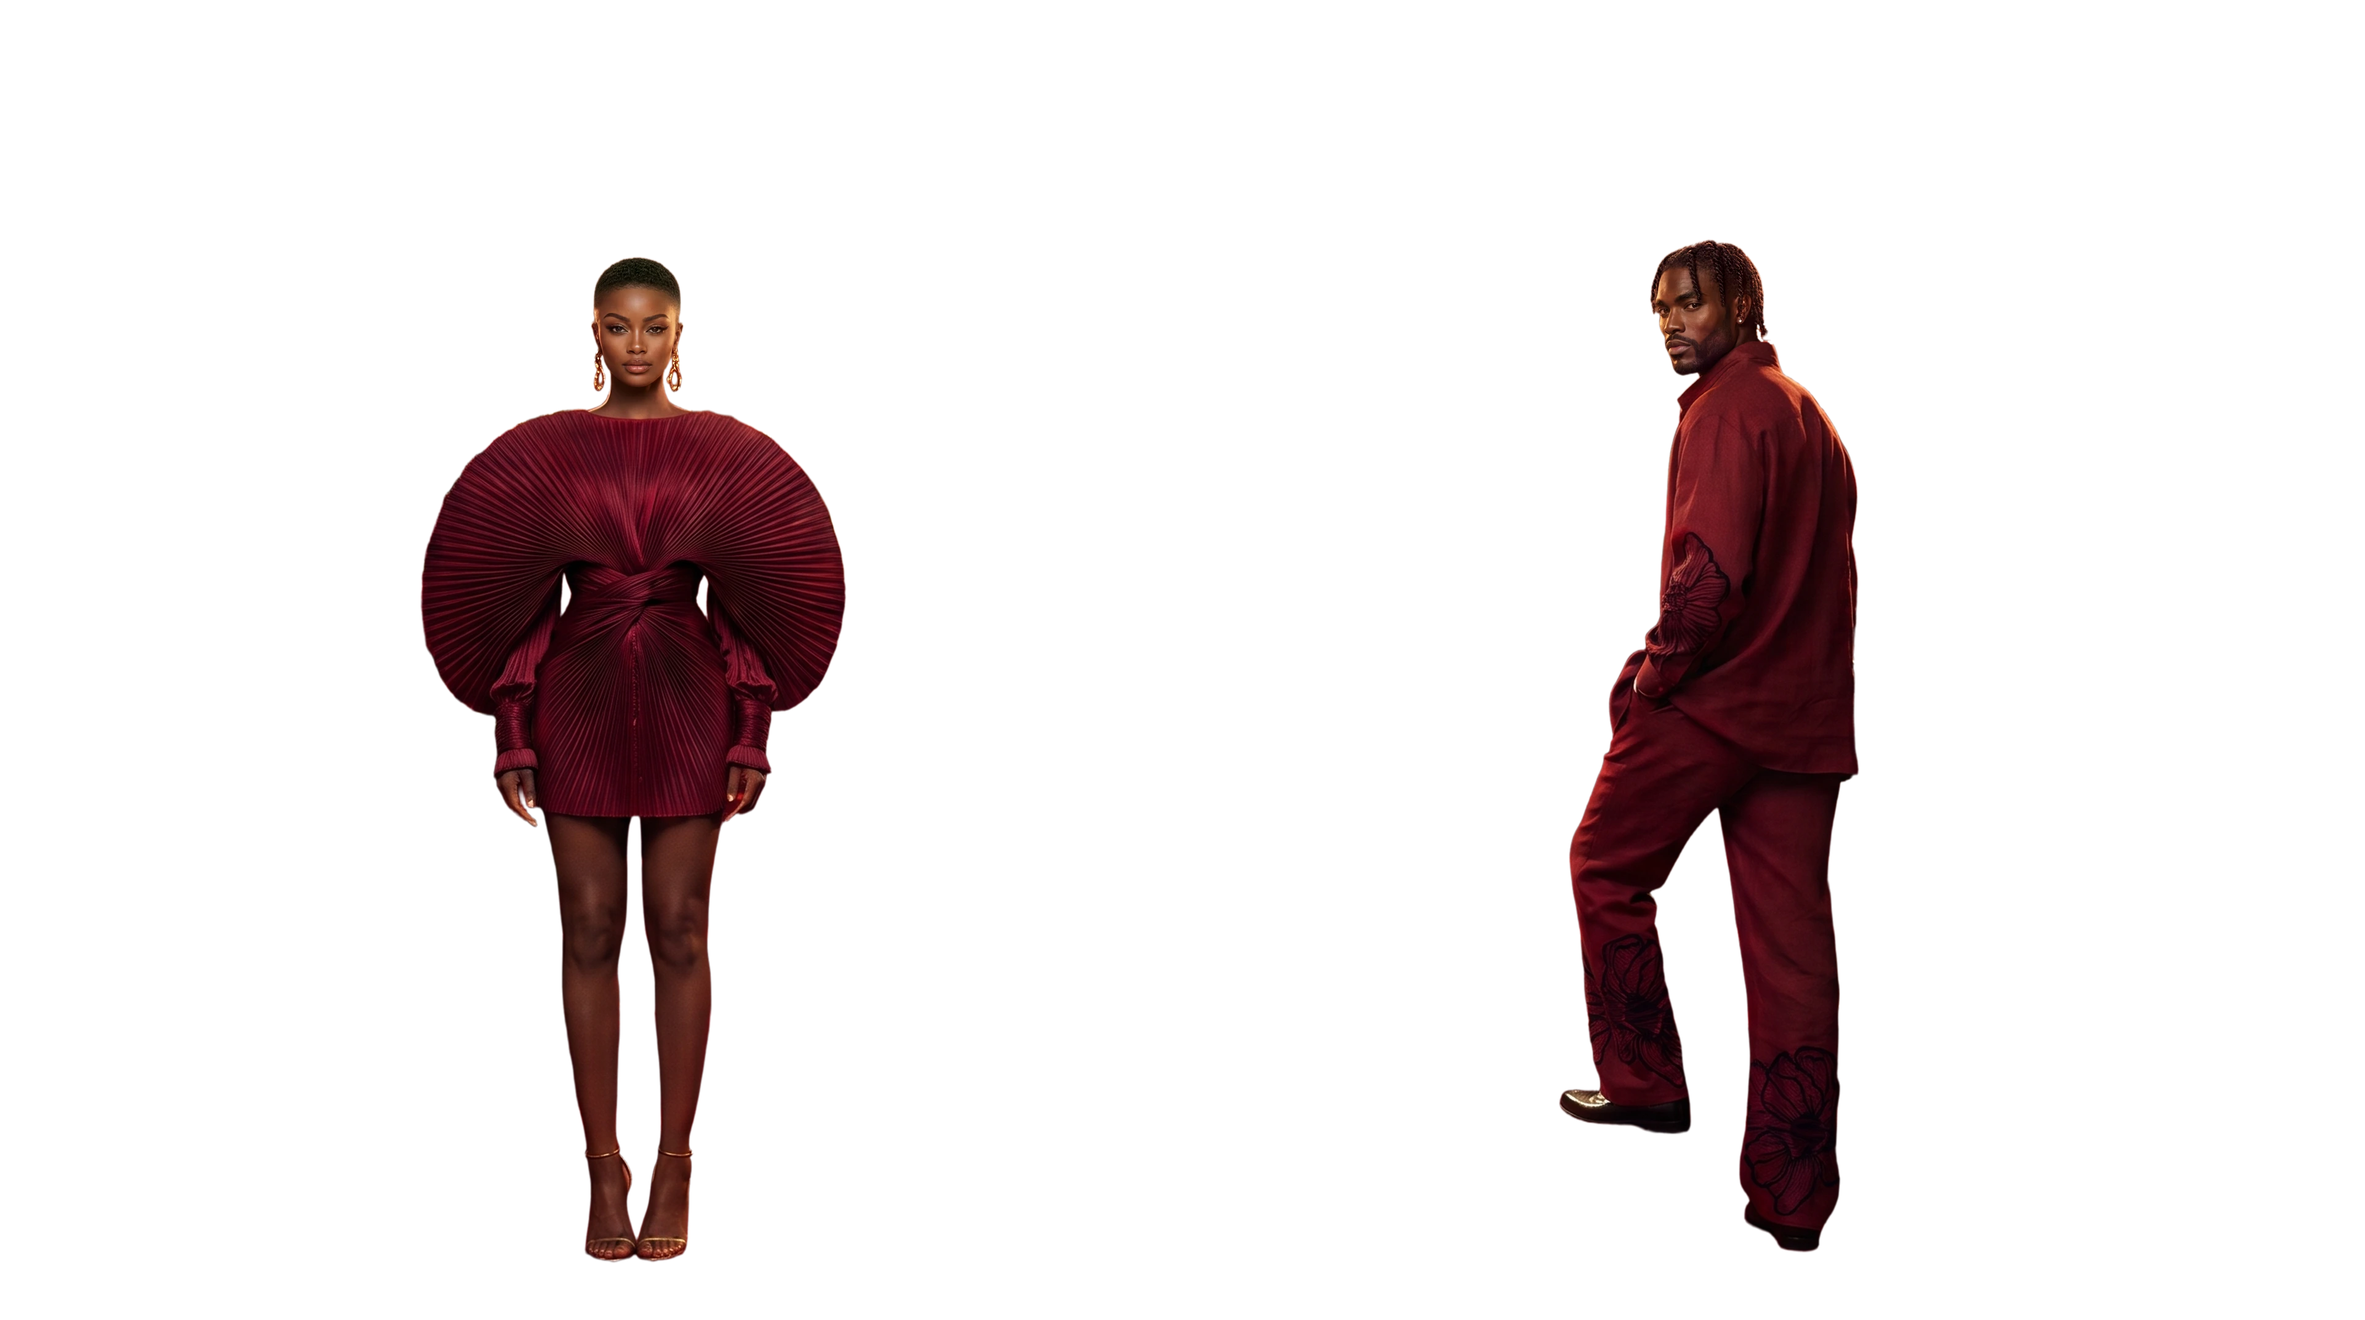
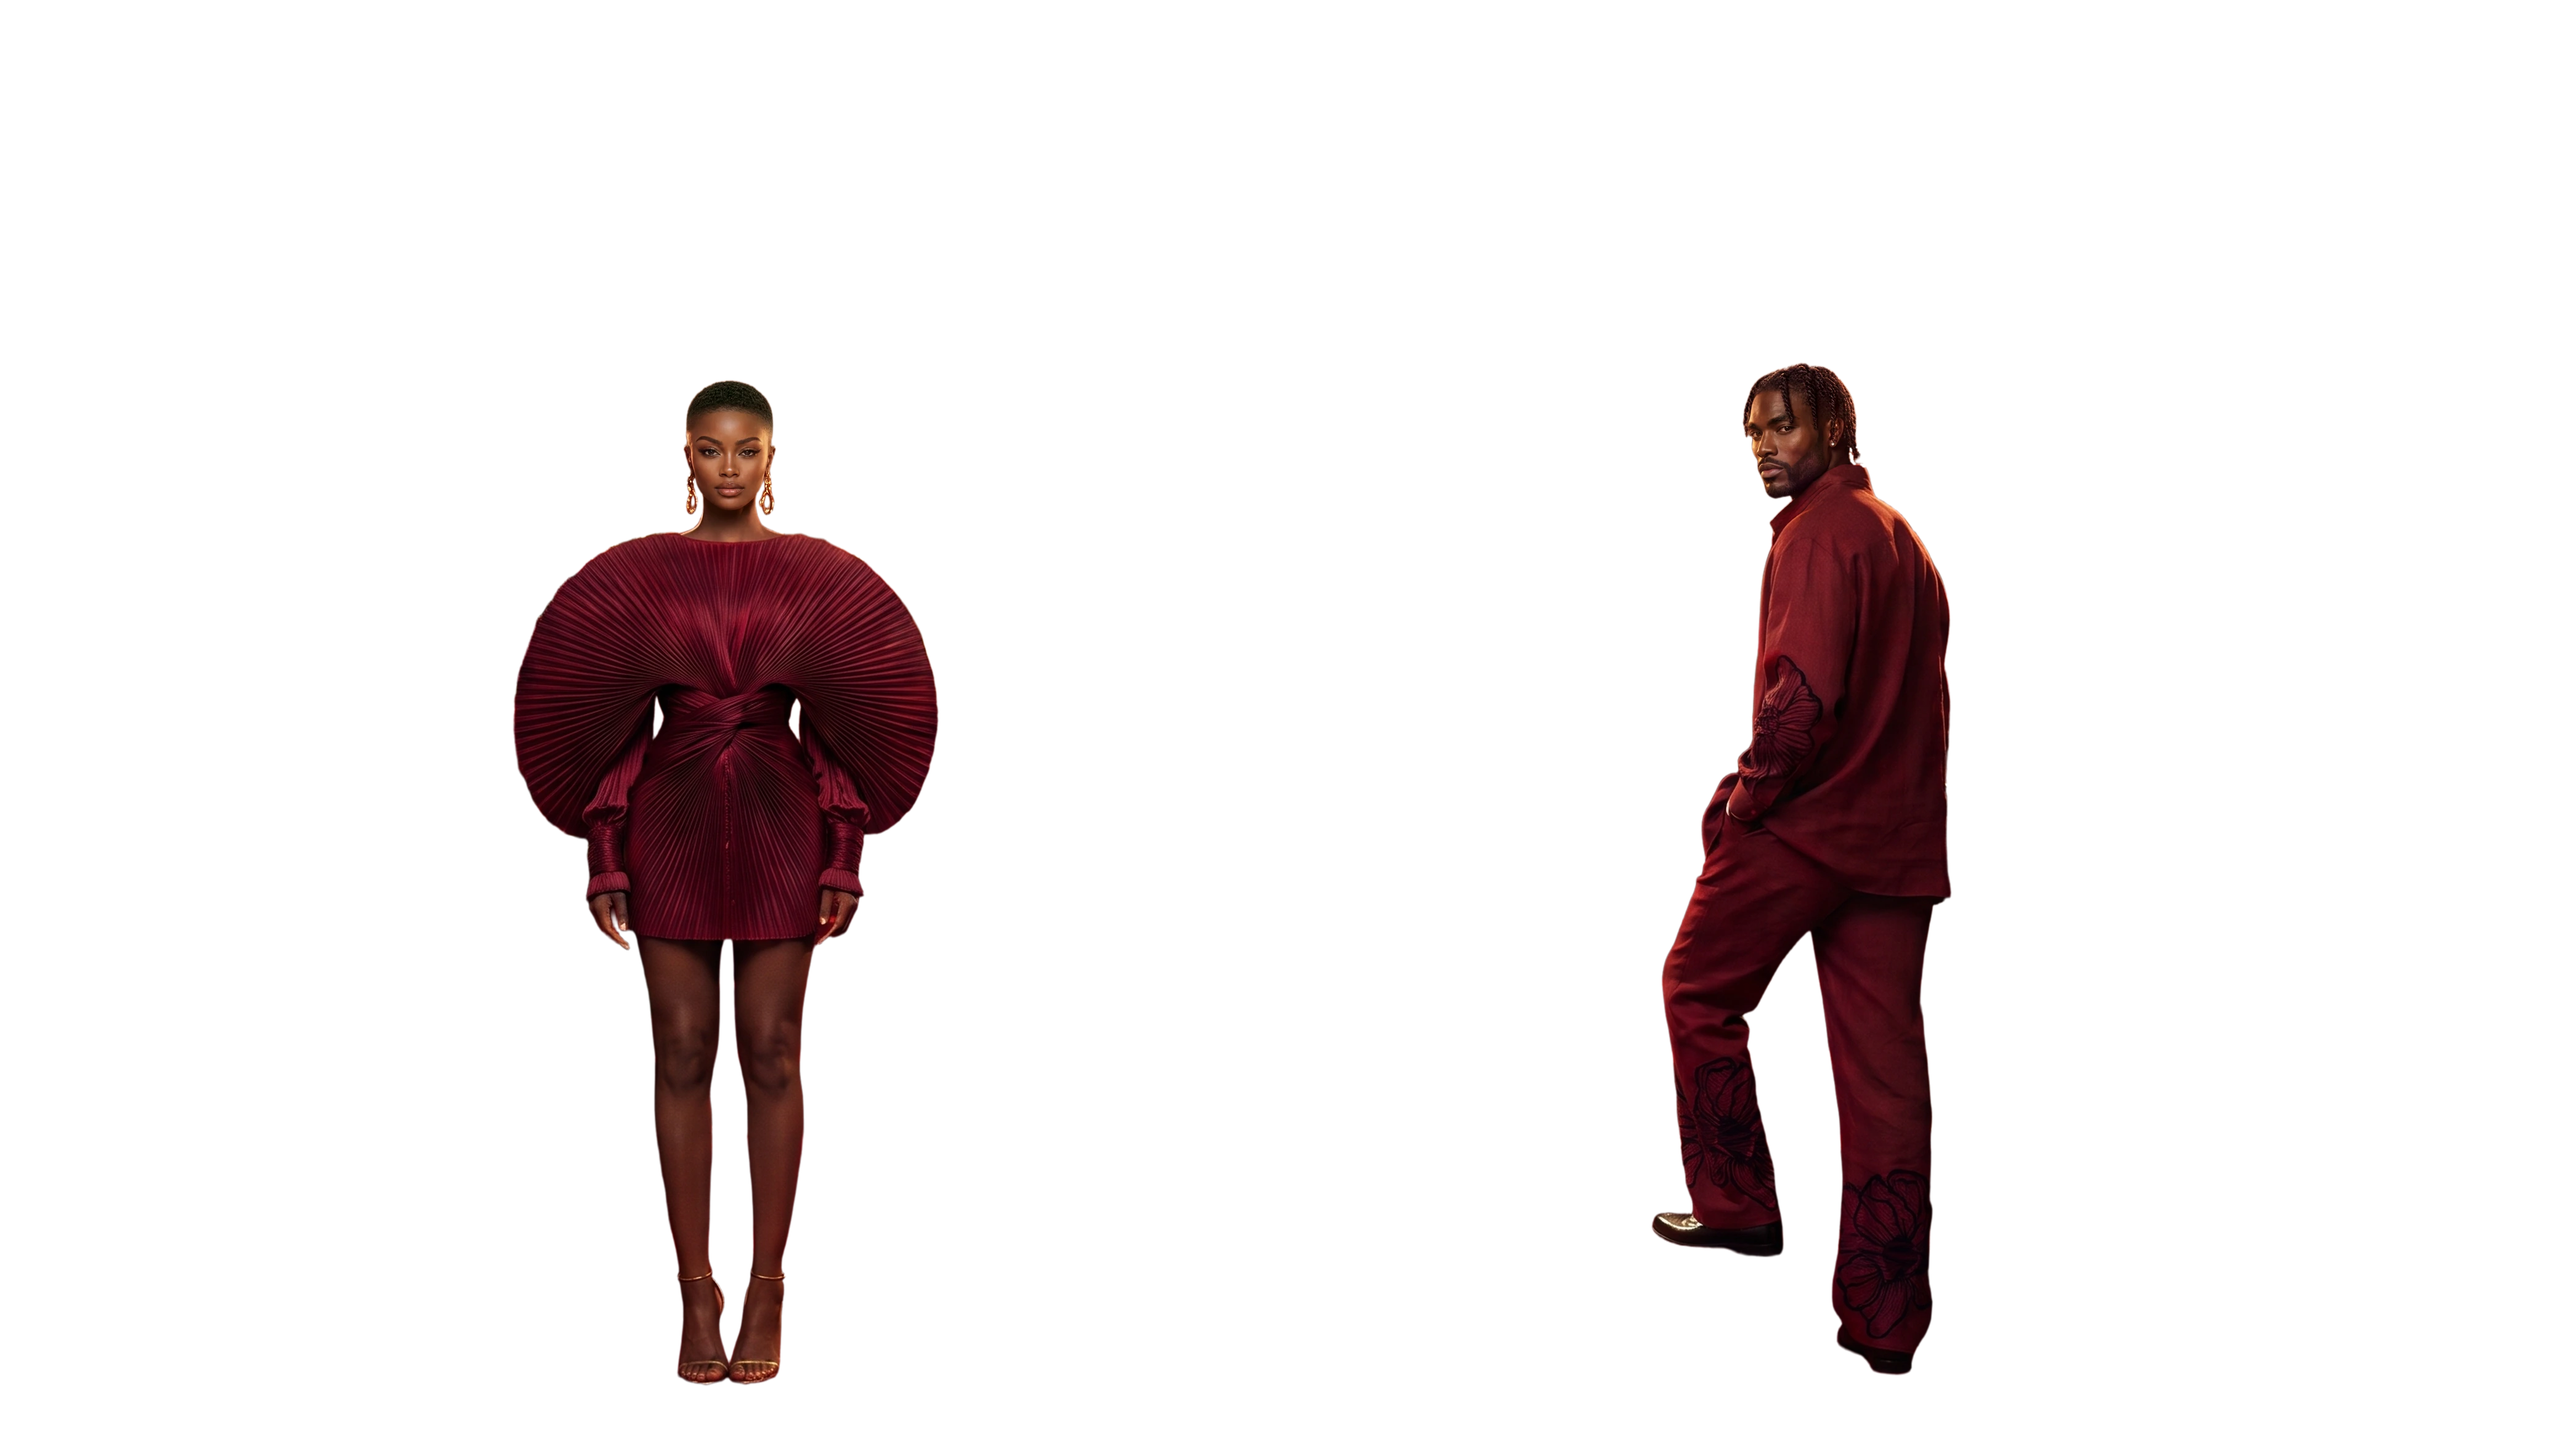
Ruby Oba desktop: flat see-through black name, more room above the couple; phone keeps its ember name

Changed region(s): [[0.1562, 0.1848, 0.375, 0.9547], [0.625, 0.1848, 0.8125, 0.9547]]

diff --git a/index.html b/index.html
@@ -424,12 +424,13 @@ var BL = [
    // warm gold (coral beads, brass lamp) for the lit number; deep cherry glass behind the tag and buttons
    nav:{alt:"#4FC3B8", hi:"#E8B84A", tag:"rgba(64,8,20,.92)", edge:"rgba(79,195,184,.8)", glass:"rgba(50,6,16,.42)",
         navsh:"0 1px 3px rgba(0,0,0,.85),0 0 14px rgba(20,2,8,.9)"},
-      nameStyle:{kind:"press", tint:"255,170,96", op:0.46, mode:"screen", glow:"rgba(255,150,70,.55)", blur:22, d:0.016,
-              lo:"rgba(16,0,4,.55)", hi:"rgba(255,214,160,.16)"},   // Ruby Oba (TJ, 22 Nov): the name glows like light through the brass screen, soft ember on the dark ceiling
+      nameStyle:{kind:"press", inner:true, tint:"0,0,0", op:0.75, d:0},   // Ruby Oba (TJ, 27 Nov): one flat see-through black, solid letters, no shadow, glow, edge or gradient
+      nameStyleTall:{kind:"press", tint:"255,170,96", op:0.46, mode:"screen", glow:"rgba(255,150,70,.55)", blur:22, d:0.016,
+              lo:"rgba(16,0,4,.55)", hi:"rgba(255,214,160,.16)"},   // phones still show the dark lounge picture, where black would vanish; drop this when the phone red carpet picture goes in
    // scene (TJ, 26 Nov): red carpet staircase, she on the left, he on the right, three photographers along the bottom edge.
    // Desktop only: the whole picture is the sky and a cut out of the two standing people is the front layer, so the name sits behind their heads.
-   // Sources: Downloads ruby-oba-red-carpet-scene.jpg (Gemini, free). The phone picture is still the old lounge slice.
-   layers:{wide:{w:3840,h:2143,headW:0.36,sky:"img/ruby-oba-sky.webp?v=carpet1",fg:"img/ruby-oba-fg.webp?v=carpet1",fgd:0.15},
+   // The picture is the original widened by mirrored curtain on both sides and a darkened extension on top, so the people sit smaller with more room above. Sources: Downloads ruby-oba-red-carpet-scene.jpg (Gemini, free). The phone picture is still the old lounge slice.
+   layers:{wide:{w:4140,h:2343,headW:0.36,sky:"img/ruby-oba-sky.webp?v=carpet2",fg:"img/ruby-oba-fg.webp?v=carpet2",fgd:0.15},
            tall:{w:1080,h:2160,head:0.36,sky:"img/ruby-oba-sky-tall.webp?v=lounge2",fg:"img/empty-fg.webp"}}},
   {n:31,name:"Oud Panga",top:["Strawberry","Candied pear","Marshmallow"],heart:["Caramel","Jasmine"],base:["Oud","Sandalwood","Vanilla","Sugar"],
    desc:"Sweet candy over soft oud and sandalwood. Evening and date night, unisex. Strong projection and powerful staying power. Like sugared fruit laid out on a warm sandalwood table.",
@@ -711,7 +712,7 @@ function composeScene(j,p){
   var c=cv.getContext("2d"), x0=sceneX0(ps), y0=sceneY0(ps), ny=nameY(y0,ps.h,ps), nx=W/2-nameW(ps)/2;   // the name stays centred on screen
   c.setTransform(dpr,0,0,dpr,0,0); c.globalAlpha=1;
   c.drawImage(ps.sky,x0+os[0],y0+os[1],ps.w,ps.h);
-  var ns=BL[j].nameStyle;
+  var ns=(shapeNow()==="tall" && BL[j].nameStyleTall) || BL[j].nameStyle;   // a page can style its name differently on phones
   if(ns && ns.kind==="press"){                 // (TJ, 22 Nov) each page styles its name its own way. "press": sheer letters pressed into the
     var wdp=WORDS[BL[j].name.toUpperCase()], nhp=nameW(ps)*wdp.h/wdp.w, dd=Math.max(0.8,nhp*ns.d);   // picture: a dark edge above, a light edge below, a see-through tinted face
     var px=nx+ow[0], py=ny+ow[1];
